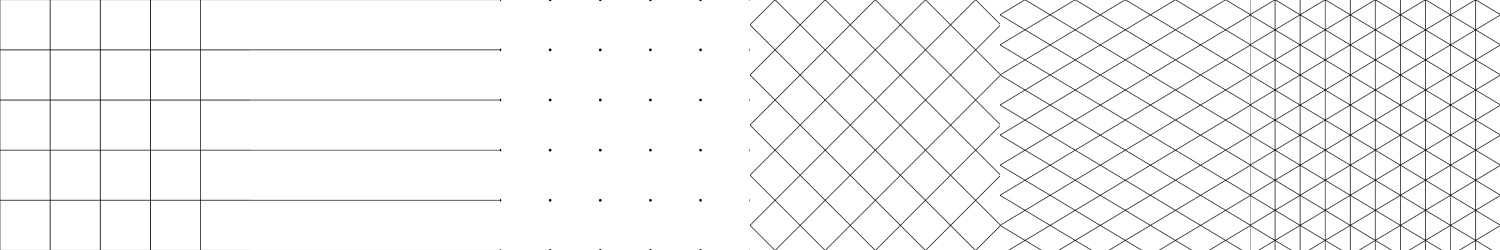
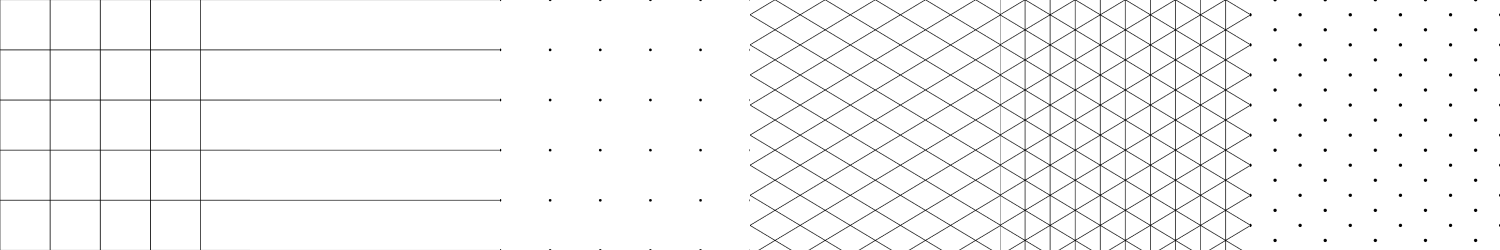
feat: add pattern hexdot,  adjust height for other

Changed region(s): [[0.828, 0.0, 1.0, 1.0], [0.4907, 0.0, 0.6747, 1.0]]

diff --git a/static/index.html b/static/index.html
@@ -70,10 +70,10 @@
                             <input type="radio" name="pattern" value="dot" onclick="changePattern(this)">
                             <div class="pattern-dot"></div>
                         </label>
-                        <label class="pattern" tabindex="0">
+                        <!--label class="pattern" tabindex="0">
                             <input type="radio" name="pattern" value="diamond" onclick="changePattern(this)">
                             <div class="pattern-diamond"></div>
-                        </label>
+                        </label-->
                         <label class="pattern" tabindex="0">
                             <input type="radio" name="pattern" value="rhombus" onclick="changePattern(this)">
                             <div class="pattern-rhombus"></div>
@@ -82,17 +82,20 @@
                             <input type="radio" name="pattern" value="triangles" onclick="changePattern(this)">
                             <div class="pattern-triangles"></div>
                         </label>
+                        <label class="pattern" tabindex="0">
+                            <input type="radio" name="pattern" value="hexdot" onclick="changePattern(this)">
+                            <div class="pattern-hexdot"></div>
+                        </label>
                     </div>
                 </div>
 
-                <div class="field">
+                <div class="field" id="widthField">
                     <label class="full-width-label">
-                        <span class="without-height">Size (mm):</span>
-                        <span class="with-height" style="display: none">Width (mm):</span>
-                        <input type="number" name="patternSize" value="5" min="1" max="100" onchange="changePatternSize(this)" onkeyup="changePatternSize(this)">
+                        <span>Width (mm):</span>
+                        <input id="widthInput" type="number" name="patternSize" value="5" min="1" max="100" onchange="changePatternSize(this)" onkeyup="changePatternSize(this)">
                     </label>
                 </div>
-                <div class="field with-height" id="heightField" style="display: none">
+                <div class="field">
                     <label class="full-width-label">
                         <span>Height (mm):</span>
                         <input type="number" name="patternHeight" value="3" min="1" max="100" onchange="changePatternHeight(this)" onkeyup="changePatternHeight(this)">
@@ -133,17 +136,17 @@
 </div>
 <script src="script.js"></script>
 <script id="template_patterns" type="x-tmpl-mustache">
-    <pattern id="rect" viewBox="0,0,{{ size }},{{ size }}" width="{{ size }}" height="{{ size }}" patternUnits="userSpaceOnUse">
-        <rect width="{{ size }}" height="{{ size }}" style="fill:none;stroke:{{ color }};stroke-width:{{ lineWidth }}"/>
+    <pattern id="rect" viewBox="0,0,{{ size }},{{ height }}" width="{{ size }}" height="{{ height }}" patternUnits="userSpaceOnUse">
+        <rect width="{{ size }}" height="{{ height }}" style="fill:none;stroke:{{ color }};stroke-width:{{ lineWidth }}"/>
     </pattern>
-    <pattern id="lines" viewBox="0,0,{{ size }},{{ size }}" width="{{ size }}" height="{{ size }}" patternUnits="userSpaceOnUse">
+    <pattern id="lines" viewBox="0,0,{{ size }},{{ height }}" width="{{ size }}" height="{{ height }}" patternUnits="userSpaceOnUse">
         <path fill-rule="evenodd" clip-rule="evenodd" d="M0 0 H{{ size }} Z" fill="none" stroke="{{ color }}" stroke-width="{{ lineWidth }}">
     </pattern>
-    <pattern id="dot" viewBox="0,0,{{ size }},{{ size }}" width="{{ size }}" height="{{ size }}" patternUnits="userSpaceOnUse">
+    <pattern id="dot" viewBox="0,0,{{ size }},{{ height }}" width="{{ size }}" height="{{ height }}" patternUnits="userSpaceOnUse">
         <circle cx="0" cy="0" r="{{ lineWidth }}" fill="{{ color }}"/>
         <circle cx="{{ size }}" cy="0" r="{{ lineWidth }}" fill="{{ color }}"/>
-        <circle cx="{{ size }}" cy="{{ size }}" r="{{ lineWidth }}" fill="{{ color }}"/>
-        <circle cx="0" cy="{{ size }}" r="{{ lineWidth }}" fill="{{ color }}"/>
+        <circle cx="{{ size }}" cy="{{ height }}" r="{{ lineWidth }}" fill="{{ color }}"/>
+        <circle cx="0" cy="{{ height }}" r="{{ lineWidth }}" fill="{{ color }}"/>
     </pattern>
     <pattern id="diamond" viewBox="0,0,{{ size }},{{ size }}" width="{{ size }}" height="{{ size }}" patternUnits="userSpaceOnUse">
         <path fill-rule="evenodd" clip-rule="evenodd" d="M{{ sizeHalf }} 0 L{{ size }} {{ sizeHalf }} L{{ sizeHalf }} {{ size }} L0 {{ sizeHalf }} Z" fill="none" stroke="{{ color }}" stroke-width="{{ lineWidth }}">
@@ -153,6 +156,12 @@
     </pattern>
     <pattern id="triangles" viewBox="0,0,{{ size }},{{ height }}" width="{{ size }}" height="{{ height }}" patternUnits="userSpaceOnUse">
         <path fill-rule="evenodd" clip-rule="evenodd" d="M0 0 V{{ height }} M{{ size }} 0 V{{ height }} M{{ sizeHalf }} 0 L0 {{ heightHalf }} L{{ sizeHalf }} {{ height }} V0 L{{ size }} {{ heightHalf }} L{{ sizeHalf }} {{ height }} Z" fill="none" stroke="{{ color }}" stroke-width="{{ lineWidth }}">
+    </pattern>
+    <pattern id="hexdot" viewBox="0,0,{{ size }},{{ height }}" width="{{ size }}" height="{{ height }}" patternUnits="userSpaceOnUse">
+        <circle cx="{{ sizeHalf }}" cy="0" r="{{ lineWidth }}" fill="{{ color }}"/>
+        <circle cx="0" cy="{{ heightHalf }}" r="{{ lineWidth }}" fill="{{ color }}"/>
+        <circle cx="{{ sizeHalf }}" cy="{{ height }}" r="{{ lineWidth }}" fill="{{ color }}"/>
+        <circle cx="{{ size }} " cy="{{ heightHalf }}" r="{{ lineWidth }}" fill="{{ color }}"/>
     </pattern>
 </script>
 <script src="colr_pickr.min.js"></script>

diff --git a/static/script.js b/static/script.js
@@ -97,7 +97,7 @@ panel.onscroll = function() {
     } else {
         body.classList.remove("scrolled");
     }
-}
+};
 
 function updatePage() {
     let svg = document.getElementById("svg");
@@ -145,25 +145,19 @@ function changePattern(element) {
 }
 
 function updateForm(pattern) {
-    switch (currentPattern) {
-    case "rhombus":
-    case "triangles":
-        updateHeightElements(true);
-        break;
-    default:
-        updateHeightElements(false);
-    }
+    updateWidthElements(currentPattern != "lines");
 }
 
-function updateHeightElements(show) {
-    const withHeight = document.getElementsByClassName("with-height")
-    const withoutHeight = document.getElementsByClassName("without-height")
+function updateWidthElements(enabled) {
+    const field = document.getElementById("widthField");
+    const input = document.getElementById("widthInput");
 
-    for (let el of withHeight) {
-        el.style.display = show ? "block" : "none";
-    }
-    for (let el of withoutHeight) {
-        el.style.display = show ? "none" : "block";
+    if (enabled) {
+        field.classList.remove("disabled");
+        input.removeAttribute("disabled");
+    } else {
+        field.classList.add("disabled");
+        input.setAttribute("disabled", "disabled");
     }
 }
 

diff --git a/static/styles.css b/static/styles.css
@@ -198,6 +198,14 @@ input[type="number"] {
   width: 8ch;
 }
 
+input[type="number"]:disabled {
+  color: #999999;
+}
+
+.field.disabled {
+  opacity: 0.5;
+}
+
 .patterns {
   display: grid;
   grid-template-columns: auto auto auto;
@@ -216,7 +224,7 @@ input[type="number"] {
 /* class that starts with pattern-*/
 [class^="pattern-"] {
   display: block;
-  background: url("patterns.png") no-repeat;
+  background: url("patterns.png?t=20221104") no-repeat;
   background-size: 600% 100%;
   border: 1px solid #d3d3d3;
   border-radius: var(--border-radius);
@@ -234,15 +242,15 @@ input[type="number"] {
   background-position: 40% 0;
 }
 
-.pattern-diamond {
+.pattern-rhombus {
   background-position: 60% 0;
 }
 
-.pattern-rhombus {
+.pattern-triangles {
   background-position: 80% 0;
 }
 
-.pattern-triangles {
+.pattern-hexdot {
   background-position: 100% 0;
 }
 

diff --git a/handler_pdf.go b/handler_pdf.go
@@ -114,8 +114,8 @@ func drawPattern(pdf gofpdf.Pdf, pattern pattern) error {
 	case "rect":
 		w, h := pdf.GetPageSize()
 		for x := 0.0; x < w; x += patternSize {
-			for y := 0.0; y < h; y += patternSize {
-				pdf.Rect(x, y, patternSize, patternSize, "D")
+			for y := 0.0; y < h; y += patternHeight {
+				pdf.Rect(x, y, patternSize, patternHeight, "D")
 			}
 		}
 	case "lines":
@@ -126,11 +126,11 @@ func drawPattern(pdf gofpdf.Pdf, pattern pattern) error {
 	case "dot":
 		pdf.SetFillColor(r, g, b)
 		for x := 0.0; x < w; x += patternSize {
-			for y := 0.0; y < h; y += patternSize {
+			for y := 0.0; y < h; y += patternHeight {
 				pdf.Circle(x, y, pattern.lineWidth/1000, "F")
 			}
 		}
-	case "diamond":
+	case "diamond": // not used
 		for x := 0.0; x < w; x += patternSize {
 			for y := 0.0; y < h; y += patternSize {
 				pdf.MoveTo(x+patternSize/2, y)
@@ -170,6 +170,14 @@ func drawPattern(pdf gofpdf.Pdf, pattern pattern) error {
 				pdf.LineTo(x+patternSize/2, y+patternHeight)
 				pdf.ClosePath()
 				pdf.DrawPath("D")
+			}
+		}
+	case "hexdot":
+		pdf.SetFillColor(r, g, b)
+		for x := 0.0; x < w; x += patternSize {
+			for y := 0.0; y < h; y += patternHeight {
+				pdf.Circle(x+patternSize/2, y, pattern.lineWidth/1000, "F")
+				pdf.Circle(x, y+patternHeight/2, pattern.lineWidth/1000, "F")
 			}
 		}
 
